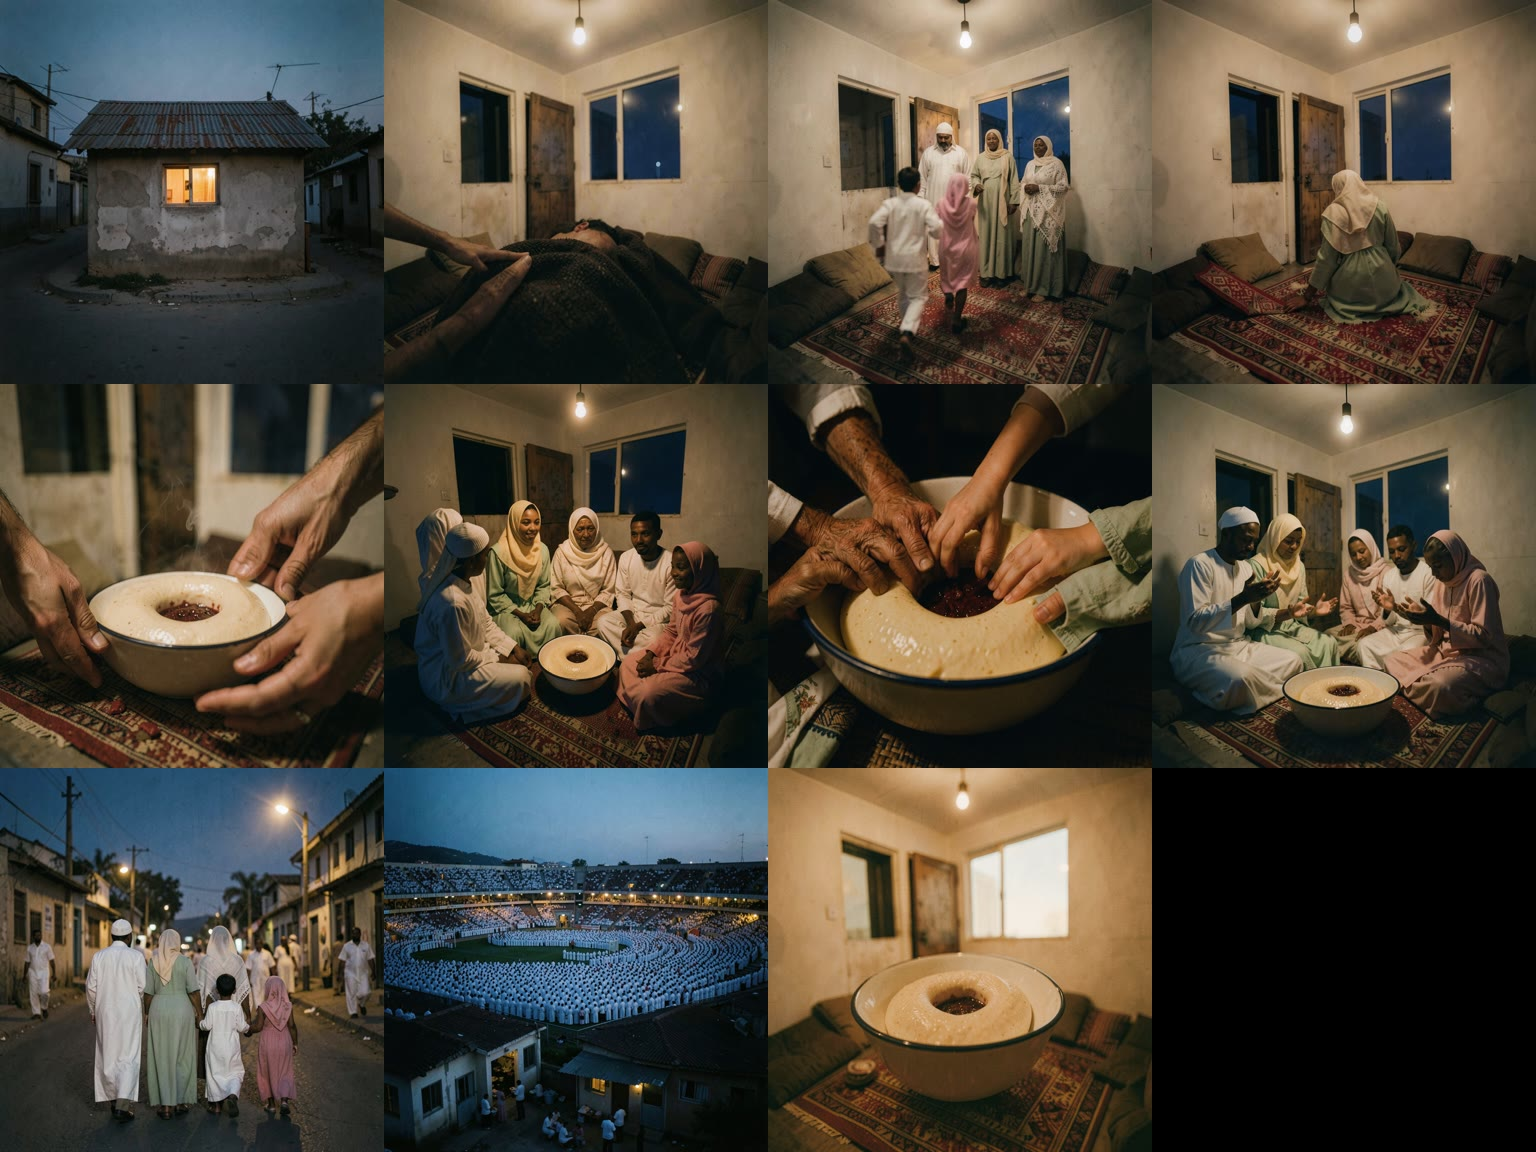
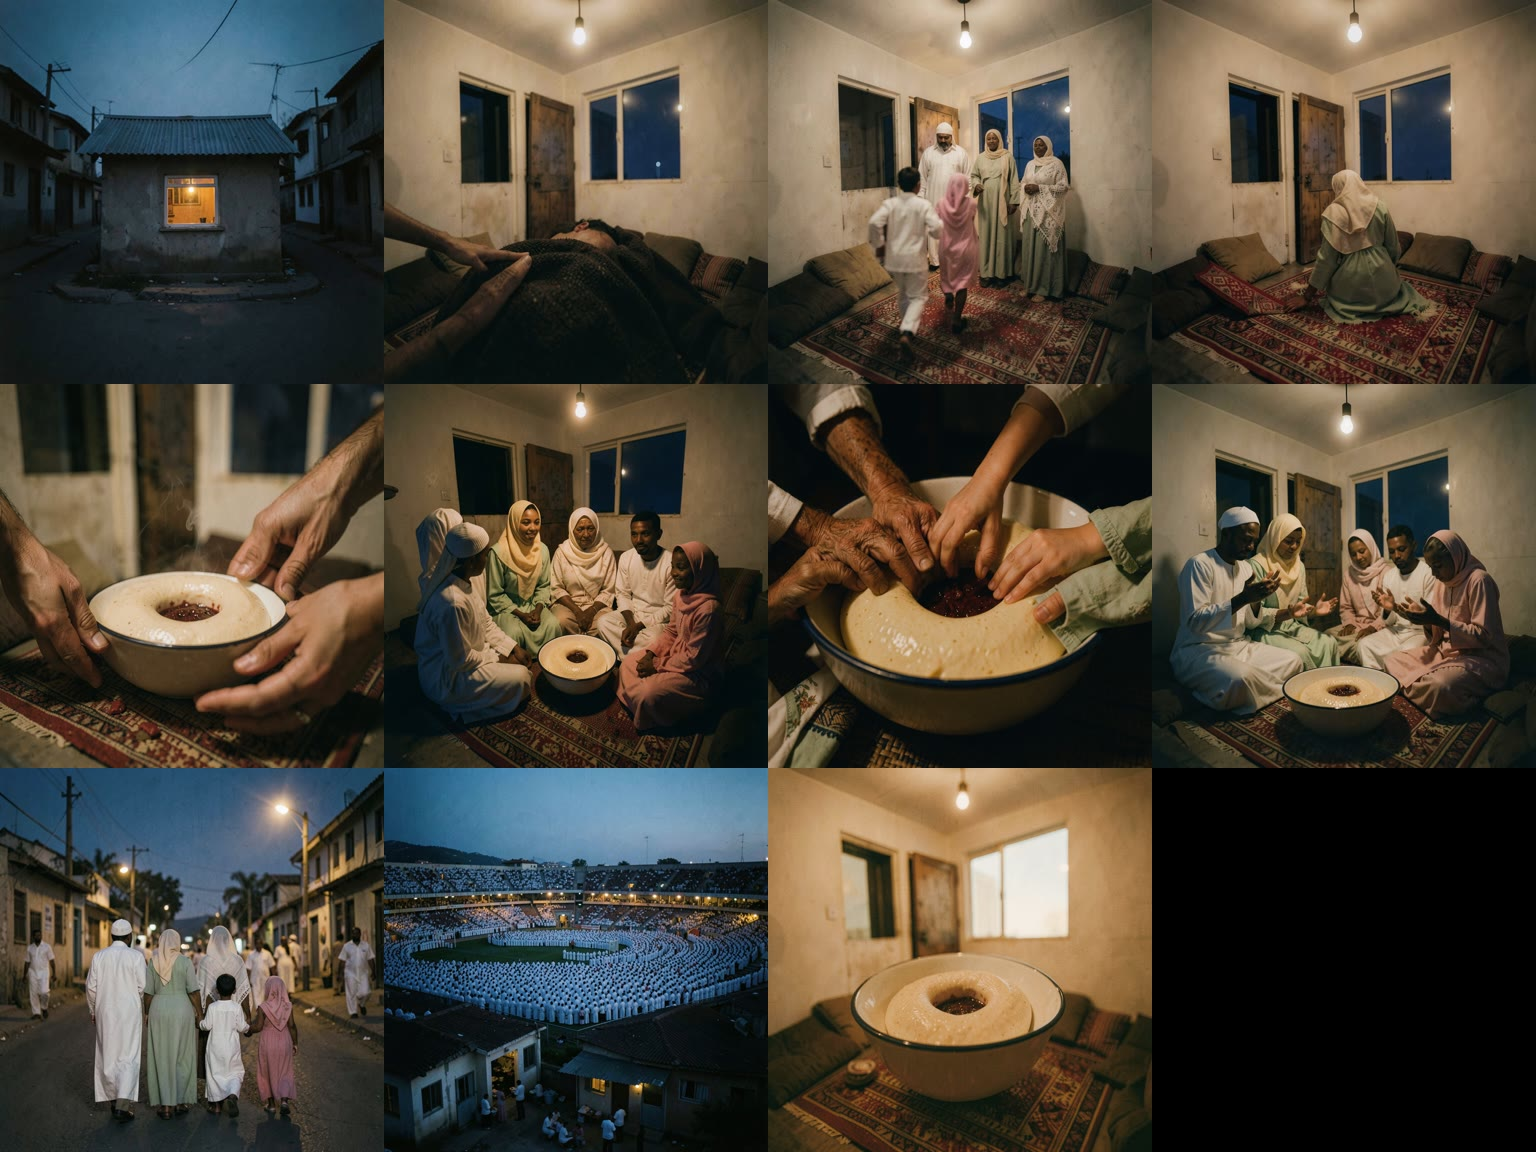
Final: film, walkthrough and post links; user test 2; walkthrough re-render

Changed region(s): [[0.0, 0.0312, 0.25, 0.2812]]

diff --git a/DESIGN.md b/DESIGN.md
@@ -89,10 +89,10 @@ Shared answers across the group: the story is clear ("the Eid morning we used to
 
 ## User test 2: near-final cut
 
-| # | Who | What they said | Action |
-|---|---|---|---|
-| 1 | | | |
-| 2 | | | |
-| 3 | | | |
+Run on 2026-11-26 with the same three people (elder brother, elder sister, younger brother), watching the full 1080×1920 film with the chosen ACE-Step score.
 
-**What changed because of test 2:** _(fill in)_
+| # | Who | What they said |
+|---|---|---|
+| 1–3 | Elder brother, elder sister, younger brother | They loved it, and named the two things changed since test 1: the race for the butter (their own request) and the background score |
+
+**What changed because of test 2:** nothing further. The test confirmed that the test 1 change (s07's butter race) landed and that the score (candidate 0, E06) supports the narration rather than competing with it. The cut was locked.

diff --git a/README.md b/README.md
@@ -2,6 +2,8 @@
 
 An 85-second Amharic short film about my family's Eid al-Fitr mornings: waking each other before dawn, sitting on the floor around one bowl of genfo, racing for the butter in the middle, making dua, and walking to the stadium for prayer. It is generated end to end by a small, reproducible pipeline from one file, `storyboard.json`.
 
+**Watch:** [vertical 9:16](https://youtube.com/shorts/q2Oz-x5BJ0c) · [horizontal 16:9](https://youtu.be/lCcljUvVNNM) (unlisted, AI-labelled) · [pipeline walkthrough](https://youtu.be/1GrMu0Rhi8w) · [post on X](https://x.com/VvdNole/status/2125986257159205304)
+
 **Output:** `outputs/final/film_9x16.mp4` (vertical) and `outputs/final/film_16x9.mp4` (horizontal), each with Amharic narration, burned-in English subtitles, an original score ducked under the voice, and an AI-disclosure end card.
 
 ## Run it
